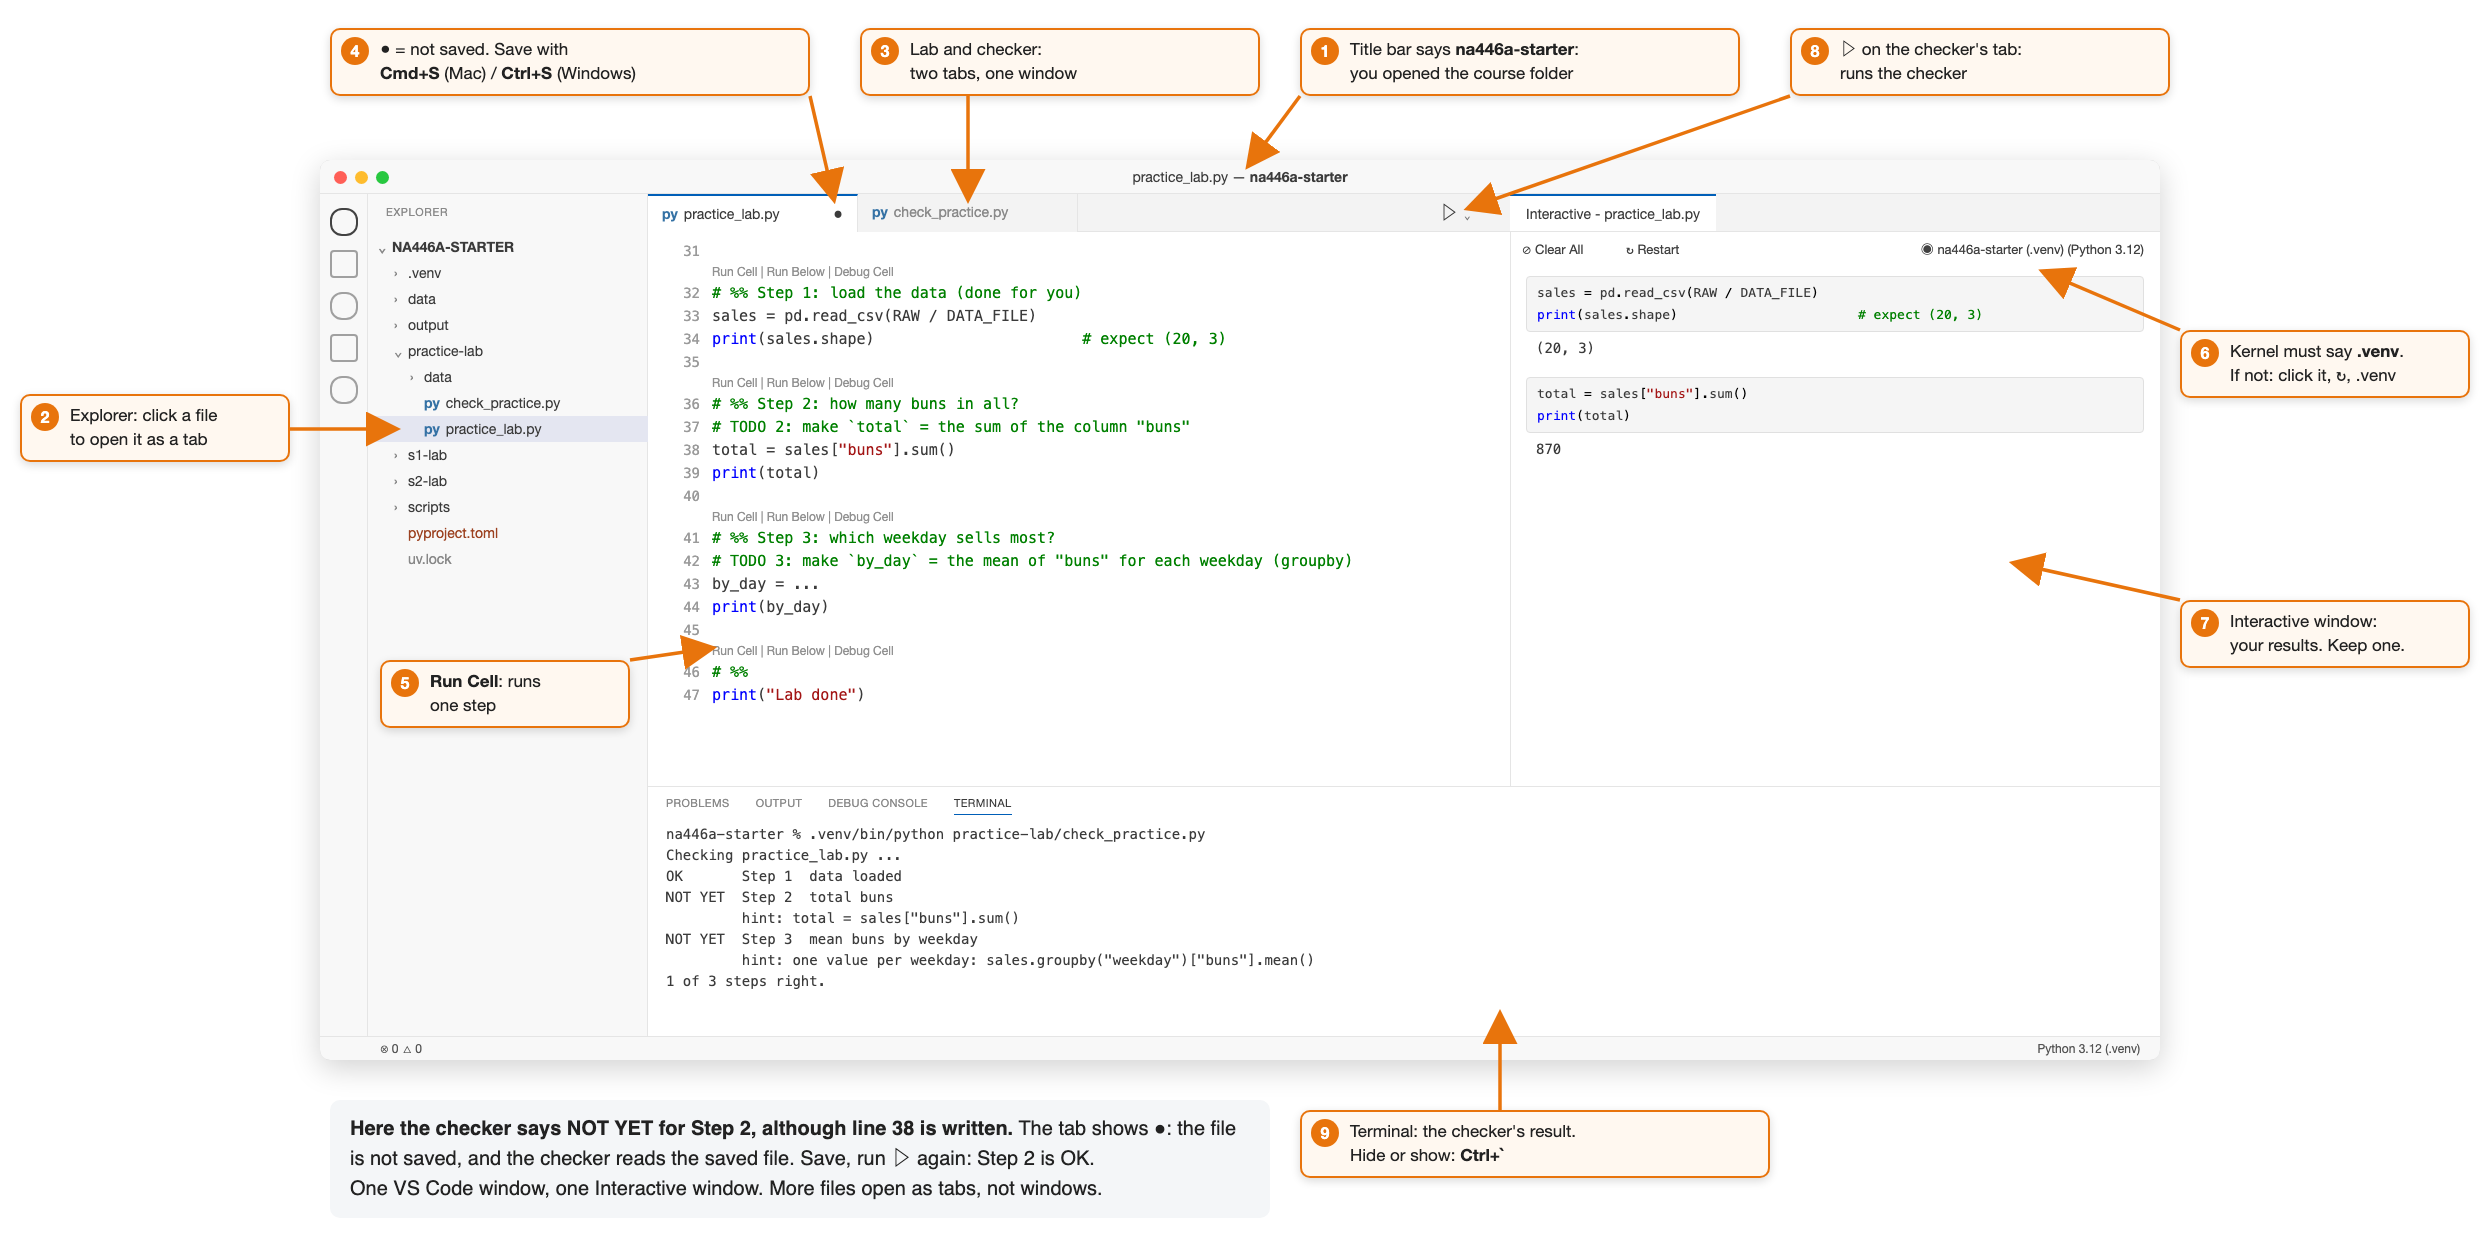
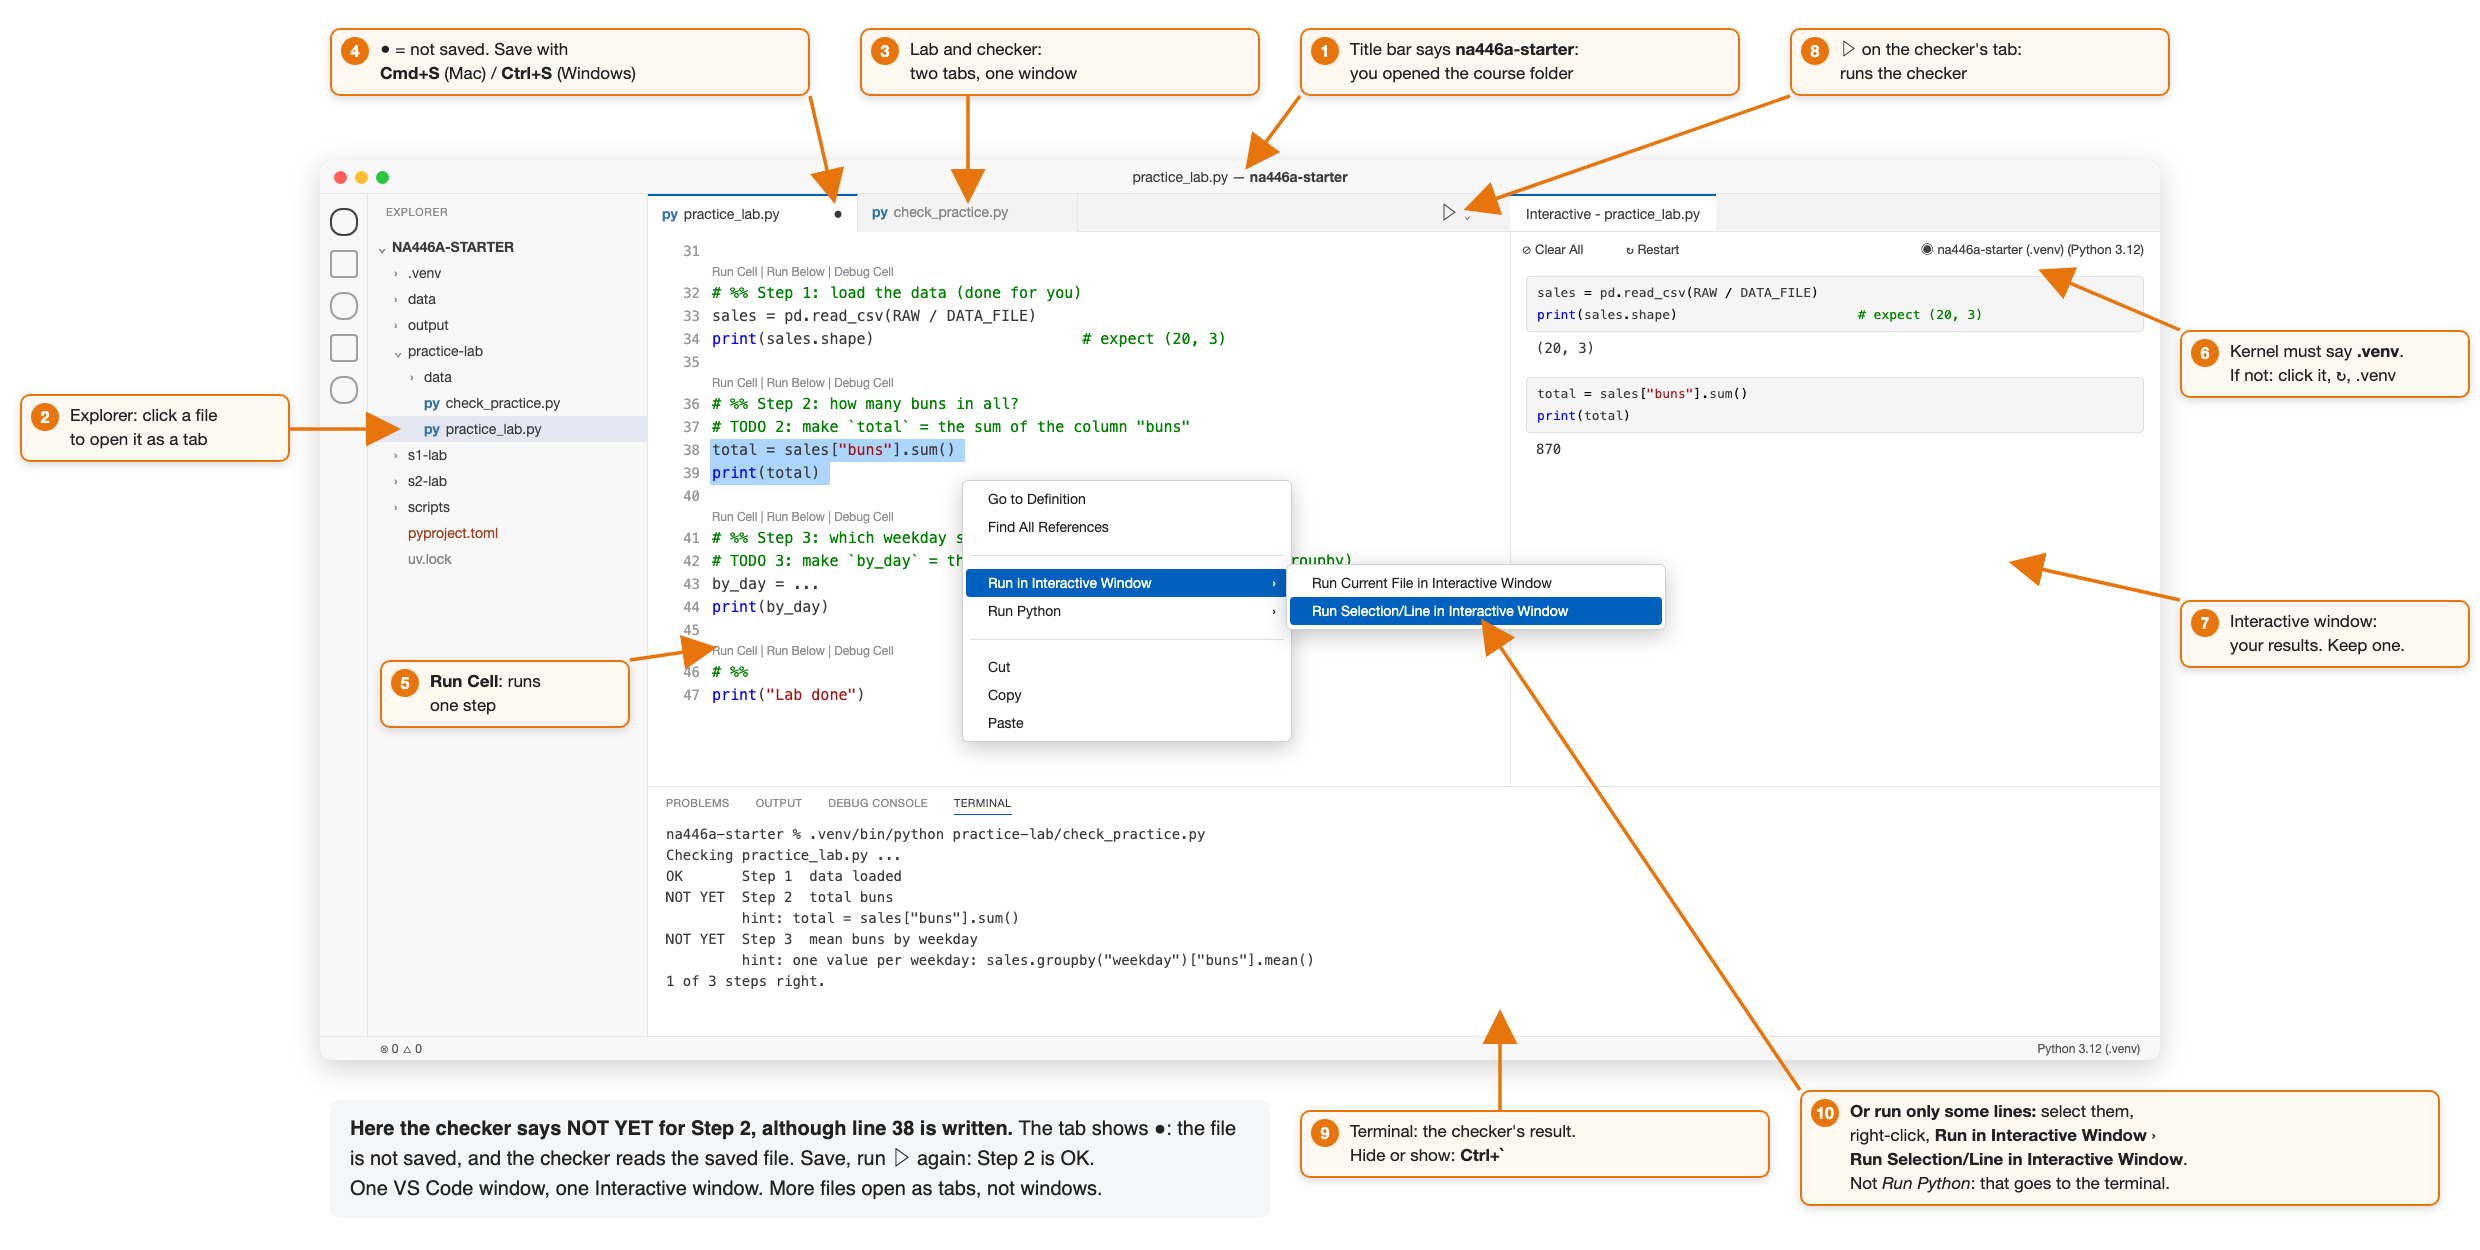
Site build 2026-10-20

diff --git a/setup.html b/setup.html
@@ -112,7 +112,9 @@ alt="VS Code arranged for a lab: Explorer on the left, the lab and the checker a
 <ol type="1">
 <li>Write the step in the lab file.</li>
 <li><em>Run Cell</em> above it, and read the result in the Interactive
-window on the right.</li>
+window on the right. (To run only some lines: select them, right-click,
+<em>Run in Interactive Window</em> › <em>Run Selection/Line in
+Interactive Window</em>.)</li>
 <li><strong>Save: Cmd+S (Mac) or Ctrl+S (Windows).</strong> The checker
 reads the saved file. A dot ● on the tab means “not saved”, and then the
 checker still sees your old version.</li>
@@ -181,9 +183,12 @@ home folder (Step 3), delete <code>.venv</code>, run
 <p><strong>Nothing shows on the right.</strong> The Interactive window
 on the right shows the output of <em>cells</em>: click <em>Run Cell</em>
 above a <code># %%</code> line, or put the cursor in the cell and press
-Shift+Enter. <em>Run Selection/Line</em> from the right-click menu sends
-the line to the terminal at the bottom instead, and ▷ runs the whole
-file there too. Both work; the output is just at the bottom.</p>
+Shift+Enter. To run only some lines on the right: select them,
+right-click, <em>Run in Interactive Window</em> › <em>Run Selection/Line
+in Interactive Window</em>. <em>Run Python</em> › <em>Run Selection/Line
+in Python Terminal</em> sends them to the terminal at the bottom
+instead, and ▷ runs the whole file there too: that works, the output is
+just at the bottom.</p>
 <p><strong>Looking at the data, like Stata’s
 <code>browse</code>.</strong> Run your cells (so the data exist in the
 Interactive window), click <em>View data</em> at the top of that window
